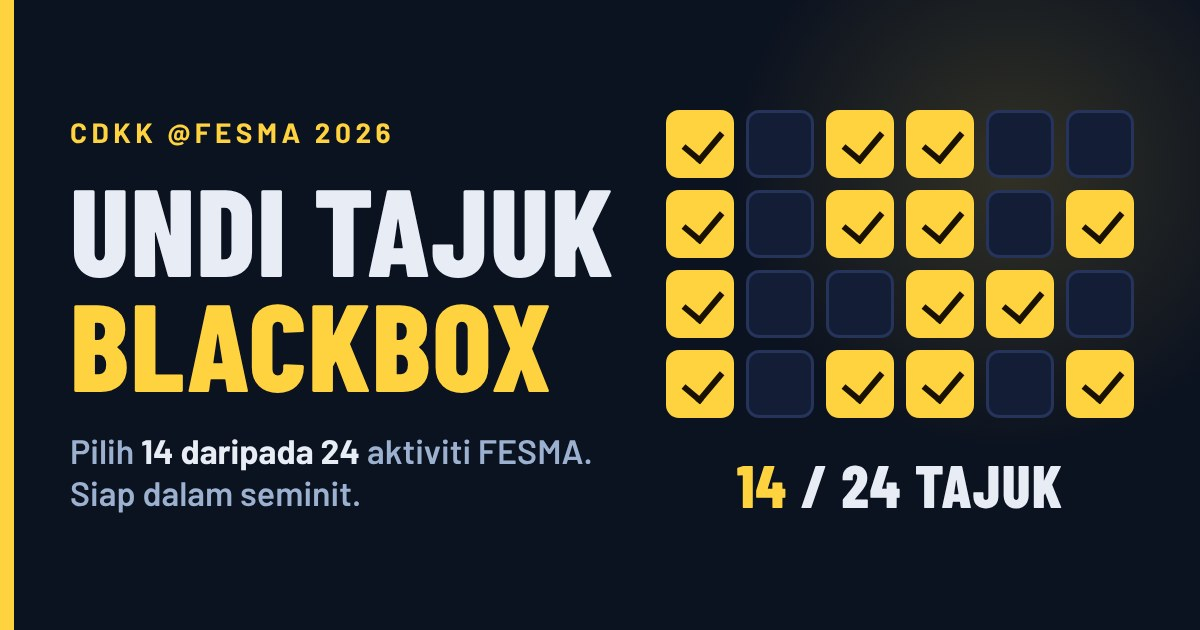
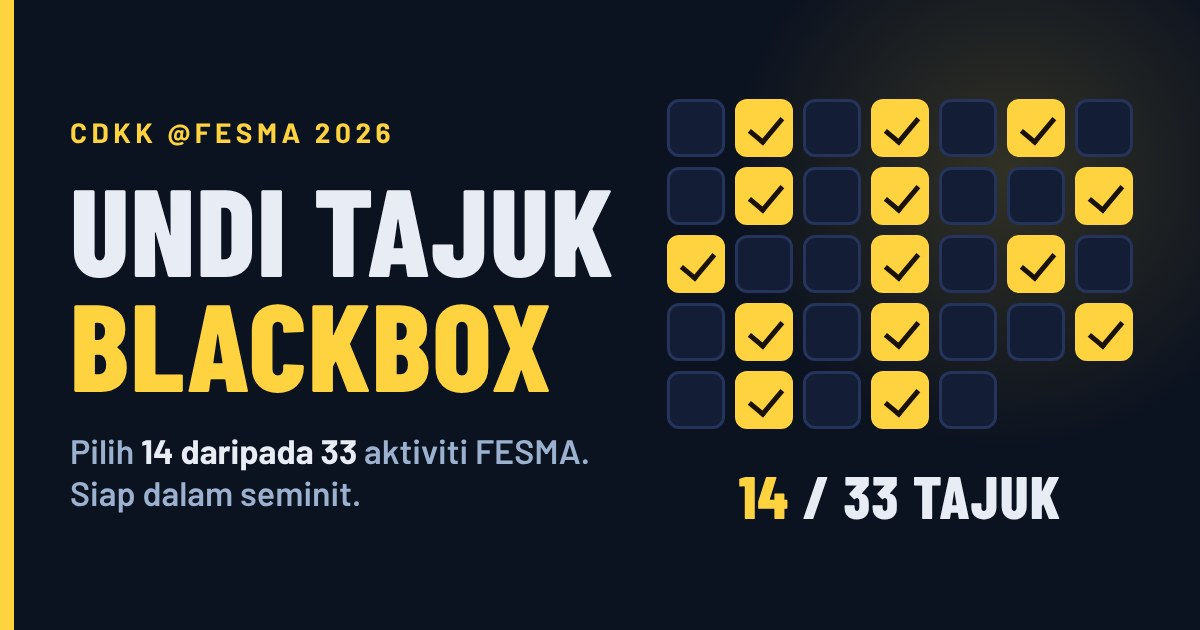
Undi: kemas kini senarai kepada 33 tajuk

Changed region(s): [[0.555, 0.1508, 0.9558, 0.6937], [0.6167, 0.7238, 0.8942, 0.8444], [0.2467, 0.6937, 0.4933, 0.754]]

diff --git a/undi/index.html b/undi/index.html
@@ -5,23 +5,23 @@
 <meta name="viewport" content="width=device-width,initial-scale=1,viewport-fit=cover">
 <title>Undi Tajuk Blackbox</title>
 <meta name="robots" content="noindex, nofollow">
-<meta name="description" content="Pilih 14 daripada 24 aktiviti FESMA untuk tajuk Blackbox CDKK. Siap dalam seminit.">
+<meta name="description" content="Pilih 14 daripada 33 aktiviti FESMA untuk tajuk Blackbox CDKK. Siap dalam seminit.">
 <meta property="og:type" content="website">
 <meta property="og:locale" content="ms_MY">
 <meta property="og:site_name" content="CDKK @FESMA 2026">
 <meta property="og:title" content="Undi Tajuk Blackbox">
-<meta property="og:description" content="Pilih 14 daripada 24 aktiviti FESMA. Siap dalam seminit.">
+<meta property="og:description" content="Pilih 14 daripada 33 aktiviti FESMA. Siap dalam seminit.">
 <meta property="og:url" content="https://brotaufik.github.io/cdkk-portal-2026/undi/">
-<meta property="og:image" content="https://brotaufik.github.io/cdkk-portal-2026/undi/og.jpg">
+<meta property="og:image" content="https://brotaufik.github.io/cdkk-portal-2026/undi/og.jpg?v=3">
 <meta property="og:image:type" content="image/jpeg">
 <meta property="og:image:width" content="1200">
 <meta property="og:image:height" content="630">
-<meta property="og:image:alt" content="Undi Tajuk Blackbox, CDKK @FESMA 2026: pilih 14 daripada 24 tajuk">
+<meta property="og:image:alt" content="Undi Tajuk Blackbox, CDKK @FESMA 2026: pilih 14 daripada 33 tajuk">
 <meta name="twitter:card" content="summary_large_image">
 <link rel="stylesheet" href="https://fonts.googleapis.com/css2?family=Barlow+Condensed:wght@600;700;800&family=Barlow:wght@400;500;600;700&display=swap">
 <style>
 /* Susun atur: satu lajur telefon dahulu. Kad tajuk dikumpul ikut kluster, bar kiraan melekat di bawah.
-   Tab Pengira untuk penyelaras: tampal mesej WhatsApp, lihat kedudukan 24 tajuk. */
+   Tab Pengira untuk penyelaras: tampal mesej WhatsApp, lihat kedudukan 33 tajuk. */
 :root {
   --bg: #F2F4F9; --surface: #FFFFFF; --ink: #101A33; --muted: #55627F; --line: #D3DAE8;
   --accent: #1F3A8A; --on-accent: #FFFFFF; --pick: #E6ECFB; --pick-line: #1F3A8A;
@@ -129,7 +129,7 @@ pre.msg { margin: 0; white-space: pre-wrap; overflow-wrap: anywhere; font-family
   <header style="display:flex;flex-direction:column;gap:10px">
     <p class="kicker">CDKK @FESMA 2026 · Sabtu 7 November</p>
     <h1>Undi Tajuk Blackbox</h1>
-    <p class="lead">Pilih tepat 14 daripada 24 aktiviti FESMA untuk dijadikan subjek cabutan Blackbox. Setiap orang satu undi. Keputusan akhir ditentukan penyelaras.</p>
+    <p class="lead">Pilih tepat 14 daripada 33 tajuk FESMA untuk dijadikan subjek cabutan Blackbox. Setiap orang satu undi. Keputusan akhir ditentukan penyelaras.</p>
     <nav class="tabs" aria-label="Paparan">
       <a href="#undi" id="tabUndi">Undi saya</a>
       <a href="#pengira" id="tabPengira">Pengira</a>
@@ -198,6 +198,8 @@ pre.msg { margin: 0; white-space: pre-wrap; overflow-wrap: anywhere; font-family
 <script>
 (function () {
   var MAKS = 14;
+  var VERSI = 'v2'; // mesti sama dengan VERSI dalam skrip Apps Script
+  var BIL = 33;     // jumlah tajuk dalam senarai
   var ENDPOINT = 'https://script.google.com/macros/s/AKfycbz4fIHIjcBVR4gfru8djthttp8IL0cStmIBd5LjPP91_PMJT-QiGAUN84kwhDdU4-4W7A/exec'; // URL web app Apps Script (berakhir /exec). Kosong = hantar melalui WhatsApp.
   var PENERIMA = '60193888053'; // Nombor WhatsApp penyelaras, format 60123456789. Kosong = pengundi pilih sendiri.
   var ITEMS = [
@@ -209,34 +211,44 @@ pre.msg { margin: 0; white-space: pre-wrap; overflow-wrap: anywhere; font-family
     [6,'Jahitan: Baju Kurung Tradisional Pesak Buluh','Hari Kemahiran','Ruangan Hadapan Dewan','9.00am - 1.00pm',''],
     [7,'Anugerah Ikon Usahawan','Hari Kemahiran','Dewan Teater Aras 1','9.00am - 1.00pm','Majlis dalam dewan'],
     [8,'Pertandingan Marhaban dan Berzanji','IFEST','Pentas Utama','9.00am - 1.00pm',''],
-    [9,'KRISMA','Pempamer','Marquee Tent','',''],
-    [10,'Persatuan Kompang Fatani','Pempamer','Marquee Tent','',''],
-    [11,'AKRAB','Pempamer','Marquee Tent','',''],
-    [12,'JPJ','Pempamer','Marquee Tent','',''],
-    [13,'KKM','Pempamer','Marquee Tent','',''],
-    [14,'PERKESO','Pempamer','Marquee Tent','',''],
-    [15,'CuepacCare','Pempamer','Marquee Tent','',''],
-    [16,'Maggi','Pempamer','Marquee Tent','',''],
-    [17,'Bank Rakyat','Pempamer','Marquee Tent','',''],
-    [18,'Farmasi IMEDIKEL','Pempamer','Marquee Tent','',''],
-    [19,'Wanita Cukup Berani','Aktiviti Tarikan Pengunjung','Pentas Khemah Utama','8.00am - 1.00pm',''],
-    [20,'SlingShot Challenge','Aktiviti Tarikan Pengunjung','Tepi Tasik','8.00am - 1.00pm',''],
-    [21,'Masakan Dodol','Aktiviti Tarikan Pengunjung','Tepi Tasik','8.00am - 1.00pm',''],
-    [22,'Mencating Batik','Aktiviti Tarikan Pengunjung','Perkampungan KEMAS','9.00am - 1.00pm',''],
-    [23,'Demo Membuat Kompang','Aktiviti Tarikan Pengunjung','Perkampungan KEMAS','9.00am - 1.00pm',''],
-    [24,'Soft Toys','Aktiviti Tarikan Pengunjung','Perkampungan KEMAS','9.00am - 1.00pm','']
+    [9,'JAKOA','Pempamer','Gerai A01 · Marquee Tent','',''],
+    [10,'UPSI','Pempamer','Gerai A02 · Marquee Tent','',''],
+    [11,'Makmal Perkembangan Autisme UKM','Pempamer','Gerai A03 · Marquee Tent','',''],
+    [12,'Farmasi Imedikal','Pempamer','Gerai A04 · Marquee Tent','',''],
+    [13,'AKRAB KEMAS','Pempamer','Gerai A05 · Marquee Tent','',''],
+    [14,'CuepacCare & PERKESO','Pempamer','Gerai A06 · Marquee Tent','',''],
+    [15,'Persatuan Kompang Fatani','Pempamer','Gerai A07 · Marquee Tent','',''],
+    [16,'Krisma Sarawak','Pempamer','Gerai A08 · Marquee Tent','',''],
+    [17,'Bank Rakyat','Pempamer','Motherbooth, Gerai A09 dan A10 · Marquee Tent','',''],
+    [18,'Maggi','Pempamer','Booth 30 kaki × 10 kaki · Marquee Tent','',''],
+    [19,'PediaSure','Pempamer','Booth 20 kaki × 10 kaki · Marquee Tent','',''],
+    [20,'Zero Beyond Wellness','Pempamer','Booth 20 kaki × 10 kaki · Marquee Tent','',''],
+    [21,'SlingShot Challenge','Aktiviti Tarikan Pengunjung','Tepi Tasik','8.00am - 1.00pm',''],
+    [22,'Masakan Dodol','Aktiviti Tarikan Pengunjung','Tepi Tasik','8.00am - 1.00pm',''],
+    [23,'Mencating Batik','Aktiviti Tarikan Pengunjung','Perkampungan KEMAS','9.00am - 1.00pm',''],
+    [24,'Batik Clay Tanjung Sepat','Gerai Usahawan','Kraftangan batik clay','',''],
+    [25,'Kuih Keria Laksamana & Kuih Seri Warisan','Gerai Usahawan','Kuih keria dan kuih tradisi','',''],
+    [26,'Touch by MyraRis','Gerai Usahawan','Crochet dan kawat bulu','',''],
+    [27,'Alip Coffee','Gerai Usahawan','Kopi segar','',''],
+    [28,'Cendol Abg Kerol','Gerai Usahawan','Cendol dan manisan','',''],
+    [29,'Jemari Juna','Gerai Usahawan','Face painting dan manicure','',''],
+    [30,'AA Patin Pahang','Gerai Usahawan','Patin tempoyak Pahang','',''],
+    [31,'Aiskrim Klasik & Ais Jelly','Gerai Usahawan','Aiskrim klasik dan ais jelly','',''],
+    [32,'Nomey Kitchen','Gerai Usahawan','Oden dan dessert','',''],
+    [33,'Lepak Krup Krap','Gerai Usahawan','Satar, roti canai dan waffle','','']
   ];
-  var KLUSTER = ['Alpha Gen Talents','Hari Kemahiran','IFEST','Pempamer','Aktiviti Tarikan Pengunjung'];
-  var KLUSTER_NOTA = { 'Pempamer': 'Jam tidak dinyatakan dalam senarai FESMA' };
+  var KLUSTER = ['Alpha Gen Talents','Hari Kemahiran','IFEST','Pempamer','Aktiviti Tarikan Pengunjung','Gerai Usahawan'];
+  var KLUSTER_NOTA = { 'Pempamer': 'Jam tidak dinyatakan dalam senarai FESMA', 'Gerai Usahawan': 'Lokasi dan jam buka gerai dimaklumkan selepas pengesahan penganjur' };
   var $ = function (id) { return document.getElementById(id); };
   var pilih = {};           // no -> true
   var rows = {};            // no -> elemen label
+  var sedia = true;         // false jika skrip penerima belum dikemas kini ke senarai ini
 
   function el(tag, cls, txt) { var e = document.createElement(tag); if (cls) e.className = cls; if (txt != null) e.textContent = txt; return e; }
   function jumlah() { return Object.keys(pilih).length; }
   function toast(t) { var x = $('toast'); x.textContent = t; x.hidden = false; clearTimeout(toast.h); toast.h = setTimeout(function () { x.hidden = true; }, 2200); }
-  function simpan() { try { localStorage.setItem('undi-bb', JSON.stringify({ nama: $('nama').value, jawatan: $('jawatan').value, tempat: $('tempat').value, pilih: Object.keys(pilih) })); } catch (e) {} }
-  function muat() { try { var d = JSON.parse(localStorage.getItem('undi-bb') || 'null'); if (d) { $('nama').value = d.nama || ''; $('jawatan').value = d.jawatan || ''; $('tempat').value = d.tempat || ''; (d.pilih || []).forEach(function (n) { n = +n; if (n >= 1 && n <= 24) pilih[n] = true; }); } } catch (e) {} }
+  function simpan() { try { localStorage.setItem('undi-bb2', JSON.stringify({ nama: $('nama').value, jawatan: $('jawatan').value, tempat: $('tempat').value, pilih: Object.keys(pilih) })); } catch (e) {} }
+  function muat() { try { var d = JSON.parse(localStorage.getItem('undi-bb2') || 'null'); if (d) { $('nama').value = d.nama || ''; $('jawatan').value = d.jawatan || ''; $('tempat').value = d.tempat || ''; (d.pilih || []).forEach(function (n) { n = +n; if (n >= 1 && n <= BIL) pilih[n] = true; }); } else { var o = JSON.parse(localStorage.getItem('undi-bb') || 'null'); if (o) { $('nama').value = o.nama || ''; $('jawatan').value = o.jawatan || ''; $('tempat').value = o.tempat || ''; } } } catch (e) {} }
 
   var CHECK = '<svg viewBox="0 0 16 16" aria-hidden="true"><path d="M3 8.5l3.2 3.2L13 4.5"/></svg>';
   function bina() {
@@ -277,8 +289,8 @@ pre.msg { margin: 0; white-space: pre-wrap; overflow-wrap: anywhere; font-family
     $('count').innerHTML = j + '<small> / ' + MAKS + '</small>';
     $('prog').style.width = (j / MAKS * 100) + '%';
     var lengkap = $('nama').value.trim() && $('jawatan').value.trim() && $('tempat').value.trim();
-    $('progM').textContent = penuh ? (lengkap ? 'Sedia dihantar' : 'Isi nama, jawatan dan tempat bertugas') : 'Pilih ' + (MAKS - j) + ' lagi';
-    $('hantar').disabled = !(penuh && lengkap);
+    $('progM').textContent = !sedia ? 'Sistem undi sedang dikemas kini. Cuba semula sebentar lagi.' : (penuh ? (lengkap ? 'Sedia dihantar' : 'Isi nama, jawatan dan tempat bertugas') : 'Pilih ' + (MAKS - j) + ' lagi');
+    $('hantar').disabled = !(penuh && lengkap && sedia);
     $('reset').disabled = j === 0; if (j === 0) batalReset();
   }
   function konfeti() {
@@ -315,7 +327,7 @@ pre.msg { margin: 0; white-space: pre-wrap; overflow-wrap: anywhere; font-family
     if (!ENDPOINT) { paparWA(); return; }
     var b = $('hantar'); b.disabled = true; b.textContent = 'Menghantar...';
     var no = Object.keys(pilih).map(Number).sort(function (x, y) { return x - y; });
-    var data = { nama: $('nama').value.trim(), jawatan: $('jawatan').value.trim(), tempat: $('tempat').value.trim(), pilih: no };
+    var data = { nama: $('nama').value.trim(), jawatan: $('jawatan').value.trim(), tempat: $('tempat').value.trim(), pilih: no, versi: VERSI };
     fetch(ENDPOINT, { method: 'POST', headers: { 'Content-Type': 'text/plain;charset=utf-8' }, body: JSON.stringify(data) })
       .then(function (r) { return r.json(); })
       .then(function (j) {
@@ -347,7 +359,7 @@ pre.msg { margin: 0; white-space: pre-wrap; overflow-wrap: anywhere; font-family
       var no = p[1].split(/[\s,]+/).filter(Boolean).map(Number);
       var uniq = no.filter(function (v, i) { return no.indexOf(v) === i; });
       if (uniq.length !== no.length) { ralat.push(label + ': ada nombor berulang'); return; }
-      if (uniq.some(function (v) { return v < 1 || v > 24; })) { ralat.push(label + ': ada nombor di luar 1 hingga 24'); return; }
+      if (uniq.some(function (v) { return v < 1 || v > BIL; })) { ralat.push(label + ': ada nombor di luar 1 hingga ' + BIL + ''); return; }
       if (uniq.length !== MAKS) { ralat.push(label + ': ' + uniq.length + ' pilihan, perlu ' + MAKS); return; }
       var kunci = label.toLowerCase() + '|' + tempat.toLowerCase();
       if (!(kunci in oleh)) urut.push(kunci);
@@ -438,6 +450,15 @@ pre.msg { margin: 0; white-space: pre-wrap; overflow-wrap: anywhere; font-family
   }
 
   bina(); muat(); segar(); paparan();
+  function semakSistem() {
+    if (!ENDPOINT) return;
+    fetch(ENDPOINT, { cache: 'no-store' }).then(function (r) { return r.json(); }).then(function (j) {
+      var baru = !(j && j.versi && j.versi !== VERSI) && !(j && !j.versi);
+      if (baru !== sedia) { sedia = baru; segar(); }
+      if (!sedia) setTimeout(semakSistem, 30000);
+    }).catch(function () {});
+  }
+  semakSistem();
   window.addEventListener('hashchange', paparan);
   ['nama', 'jawatan', 'tempat'].forEach(function (k) { $(k).addEventListener('input', function () { segar(); simpan(); }); });
   $('hantar').addEventListener('click', hantar);
